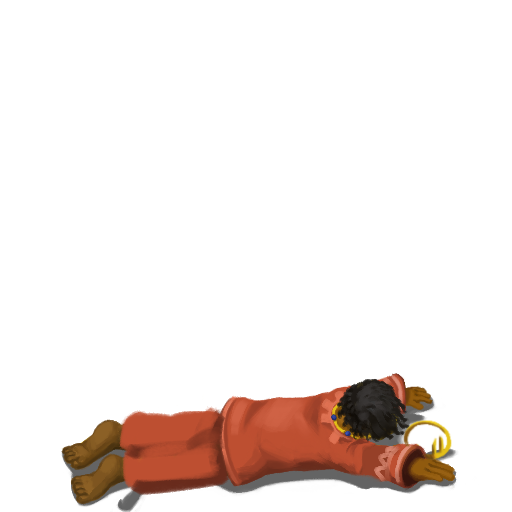
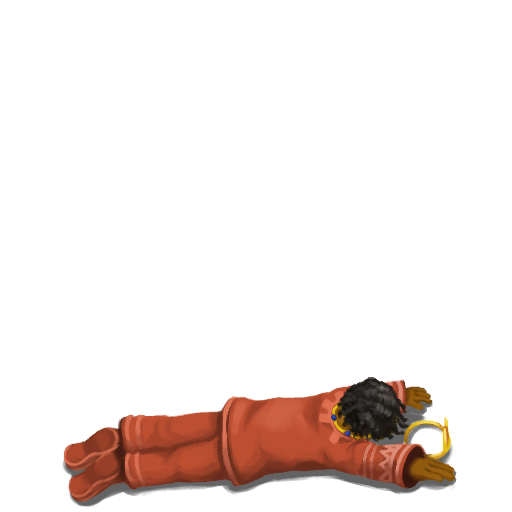
update artwork and fixed pirouette

Changed region(s): [[0.0938, 0.7812, 0.6562, 1.0], [0.6562, 0.7188, 0.9062, 0.9688]]

diff --git a/theUnchainedMod/src/main/java/theUnchainedMod/cards/Pirouette.java b/theUnchainedMod/src/main/java/theUnchainedMod/cards/Pirouette.java
@@ -10,6 +10,7 @@ import theUnchainedMod.TheUnchainedMod;
 import theUnchainedMod.actions.PirouetteAction;
 import theUnchainedMod.characters.TheUnchained;
 import theUnchainedMod.powers.MomentumPower;
+import theUnchainedMod.powers.NewTwoAmountPower;
 import theUnchainedMod.relics.BalletShoes;
 
 import static com.megacrit.cardcrawl.core.CardCrawlGame.languagePack;
@@ -47,7 +48,7 @@ public class Pirouette extends AbstractDynamicCard {
     @Override
     public void use(AbstractPlayer p, AbstractMonster m) {
         if (p.hasPower(MomentumPower.POWER_ID)) {
-            TwoAmountPower momentumPower = (TwoAmountPower) p.getPower(MomentumPower.POWER_ID);
+            NewTwoAmountPower momentumPower = (NewTwoAmountPower) p.getPower(MomentumPower.POWER_ID);
             AbstractDungeon.actionManager.addToTop(new ApplyPowerAction(p, p, new MomentumPower(p, momentumPower.amount2)));
         } else {
             if (p.hasRelic(BalletShoes.ID))
